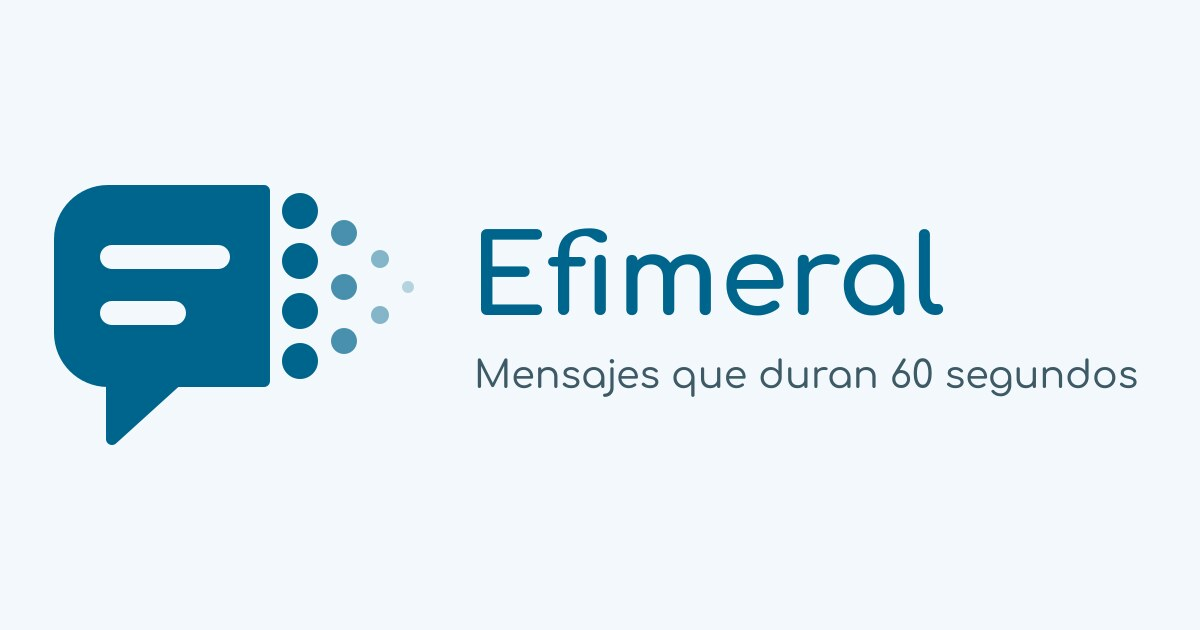
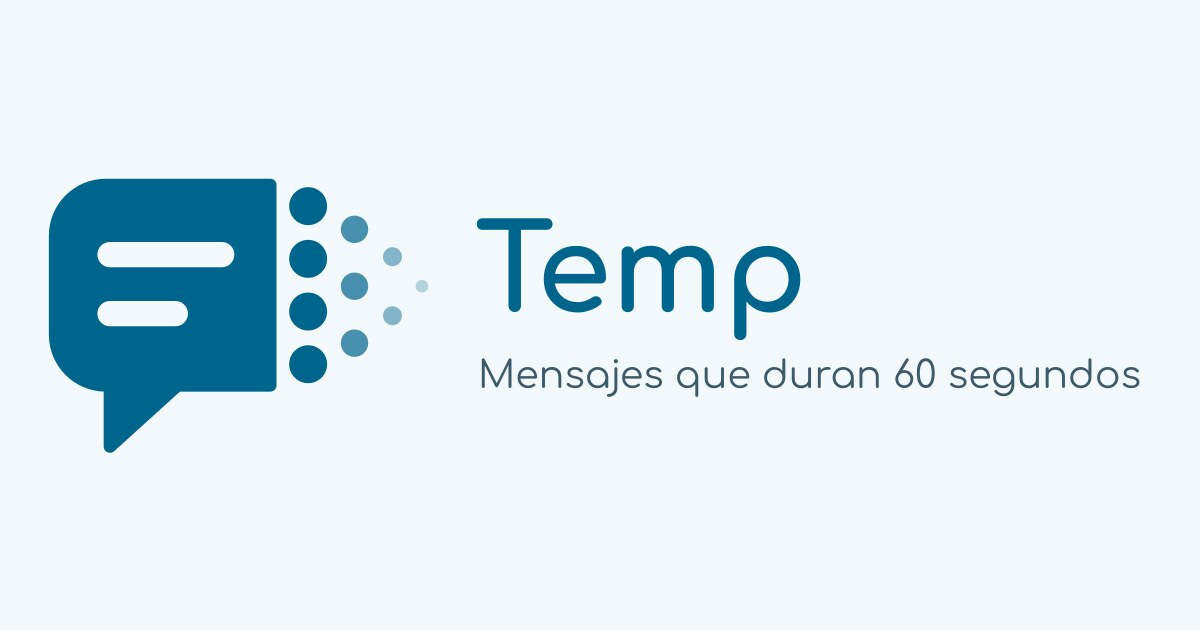
Renombrada a Temp: temp.dotrino.com, repo dotrino-temp, protocolo 'tmp'

diff --git a/src/main.js b/src/main.js
@@ -7,7 +7,7 @@ import { t, getLang, setLang } from './i18n.js'
 import { joinRoom, normalizeChannel, TTL_MS, MAX_TEXT } from './room.js'
 
 const app = document.getElementById('app')
-if (!app) throw new Error('efimeral: #app is missing from index.html')
+if (!app) throw new Error('temp: #app is missing from index.html')
 
 setLang(getLang())
 
@@ -40,12 +40,12 @@ const askedInvalid = location.pathname.length > 1 && !channel
 const topbar = h('dotrino-topbar', {
   profile: true,
   theme: true,
-  brand: channel ? 'Efimeral /' + channel : 'Efimeral',
+  brand: channel ? 'Temp /' + channel : 'Temp',
   icon: '/icon.svg',
   'brand-href': '/',
   'no-back': true,
   'support-href': 'https://ko-fi.com/dotrino',
-  'support-repo': 'imdotrino/dotrino-efimeral',
+  'support-repo': 'imdotrino/dotrino-temp',
   'support-discord': 'https://discord.gg/D648uq7cth',
 })
 const main = h('main', { class: 'view' })
@@ -81,7 +81,7 @@ function renderHome () {
   })
   const enterBtn = h('button', { class: 'btn primary', type: 'submit', 'data-testid': 'enter-btn' })
   const randomBtn = h('button', { class: 'btn', type: 'button', 'data-testid': 'random-btn', onclick: () => go(randomChannel()) })
-  const prefix = h('span', { class: 'prefix', text: 'efimeral.dotrino.com/' })
+  const prefix = h('span', { class: 'prefix', text: 'temp.dotrino.com/' })
   form.append(h('div', { class: 'channel-row' }, prefix, input), h('div', { class: 'row' }, enterBtn, randomBtn), msg)
   main.replaceChildren(form)
   repaint = () => {
@@ -199,7 +199,7 @@ function renderRoom (name) {
         copyBtn.innerHTML = ICON_CHECK
         copyBtn.classList.add('done')
         setTimeout(() => { copyBtn.innerHTML = ICON_COPY; copyBtn.classList.remove('done') }, 1500)
-      }).catch((e) => { console.warn('[efimeral] copy failed:', e?.message); showNotice(t('copyFailed')) })
+      }).catch((e) => { console.warn('[temp] copy failed:', e?.message); showNotice(t('copyFailed')) })
     })
     const resendBtn = m.mine
       ? h('button', { class: 'resend', type: 'button', 'data-testid': 'resend-btn', hidden: true })
@@ -229,7 +229,7 @@ function renderRoom (name) {
         reset()
         room.resend(m.id, acked).catch((err) => {
           if (err?.code === 'new-member') { paintStatus(); return }
-          console.error('[efimeral] resend failed:', err?.code || err?.message)
+          console.error('[temp] resend failed:', err?.code || err?.message)
         })
       })
     }
@@ -258,7 +258,7 @@ function renderRoom (name) {
     onNotice: (k, n) => showNotice(t(k, n)),
     onDelivered: () => paintResend(),
   }).then((r) => { room = r; paintResend() }).catch((e) => {
-    console.error('[efimeral] connect failed:', e?.code || e?.message)
+    console.error('[temp] connect failed:', e?.code || e?.message)
     state = 'error'
     paintStatus()
   })
@@ -271,7 +271,7 @@ function renderRoom (name) {
     // instante, no sale y el texto se queda en la caja.
     room.send(text, acked).then(() => { input.value = '' }).catch((err) => {
       if (err?.code === 'new-member') { paintStatus(); return }
-      console.error('[efimeral] send failed:', err?.code || err?.message)
+      console.error('[temp] send failed:', err?.code || err?.message)
     })
   })
   window.addEventListener('pagehide', () => room?.leave())
@@ -293,7 +293,7 @@ function hue (s) {
 if ('serviceWorker' in navigator && !import.meta.env.DEV) {
   window.addEventListener('load', () => {
     navigator.serviceWorker.register('/sw.js').then((reg) => {
-      setInterval(() => reg.update().catch((e) => console.warn('[efimeral] sw update failed:', e?.message)), 30 * 60_000)
-    }).catch((e) => console.warn('[efimeral] sw register failed:', e?.message))
+      setInterval(() => reg.update().catch((e) => console.warn('[temp] sw update failed:', e?.message)), 30 * 60_000)
+    }).catch((e) => console.warn('[temp] sw register failed:', e?.message))
   })
 }

diff --git a/src/room.js b/src/room.js
@@ -1,5 +1,5 @@
 /**
- * Un canal de Efimeral sobre el pilar de transporte (@dotrino/proxy-client).
+ * Un canal de Temp sobre el pilar de transporte (@dotrino/proxy-client).
  *
  * SIN CUENTA Y SIN NADA GUARDADO. Cada pestaña inventa al abrir dos llaves que viven solo
  * en memoria: una de firma (el proxio la pide para publicarse en un canal e identificarse)
@@ -25,7 +25,7 @@ const REPUBLISH_MS = 10 * 60_000
 // Red de seguridad del contador: los eventos joined/left lo llevan en tiempo real, y esto
 // corrige lo que se haya perdido en una reconexión.
 const RELIST_MS = 30_000
-const CHANNEL_PREFIX = 'efimeral_'
+const CHANNEL_PREFIX = 'temp_'
 
 /** @param {string} raw */
 export function normalizeChannel (raw) {
@@ -104,7 +104,7 @@ export async function joinRoom (name, h) {
       await refresh()
       h.onStatus('online')
     } catch (e) {
-      console.error('[efimeral] join failed:', /** @type {any} */ (e)?.code || /** @type {Error} */ (e).message)
+      console.error('[temp] join failed:', /** @type {any} */ (e)?.code || /** @type {Error} */ (e).message)
       h.onStatus('error')
     }
   }
@@ -124,19 +124,19 @@ export async function joinRoom (name, h) {
   }
   client.on('channel_left', (ch, tk) => gone(tk, ch))
   client.on('peer_disconnected', (tk, ch) => gone(tk, ch))
-  client.on('error', (e) => console.warn('[efimeral] transport:', e?.code || e?.type || e?.error))
+  client.on('error', (e) => console.warn('[temp] transport:', e?.code || e?.type || e?.error))
 
   client.on('message', (from, payload, meta) => {
     // El pilar es el único que abre el sobre; aquí solo se comprueba que venía sellado.
     if (!meta?.sealed) return
     const m = typeof payload === 'string' ? safeParse(payload) : payload
-    if (!m || m.t !== 'efm' || typeof m.text !== 'string' || typeof m.id !== 'string') return
+    if (!m || m.t !== 'tmp' || typeof m.text !== 'string' || typeof m.id !== 'string') return
     if (!compatible(m.v) && !warnedVersion) { warnedVersion = true; h.onNotice('oldVersion') }
     h.onMessage({ id: m.id, text: m.text.slice(0, MAX_TEXT), from, mine: false, at: Date.now() })
   })
 
   const logFail = (/** @type {string} */ what) => (/** @type {any} */ e) =>
-    console.warn(`[efimeral] ${what} failed:`, e?.code || e?.message)
+    console.warn(`[temp] ${what} failed:`, e?.code || e?.message)
   /**
    * Manda un mensaje mío a todos los conectados de ahora y apunta a quién le llegó.
    * @param {string} id
@@ -144,7 +144,7 @@ export async function joinRoom (name, h) {
   const deliver = async (id) => {
     const e = sent.get(id)
     if (!e) return
-    const payload = { t: 'efm', v: MINE, id, text: e.text }
+    const payload = { t: 'tmp', v: MINE, id, text: e.text }
     const others = [...members].filter((tk) => tk !== client.token)
     const results = await Promise.allSettled(others.map(async (tk) => {
       const peerPubkey = client.pubkeyOfToken(tk) || await client.whoIs(tk, 5000)
@@ -153,7 +153,7 @@ export async function joinRoom (name, h) {
       e.recipients.add(tk)
     }))
     const failed = results.filter((r) => r.status === 'rejected')
-    for (const f of failed) console.warn('[efimeral] not delivered:', /** @type {any} */ (f).reason?.code || /** @type {any} */ (f).reason?.message)
+    for (const f of failed) console.warn('[temp] not delivered:', /** @type {any} */ (f).reason?.code || /** @type {any} */ (f).reason?.message)
     if (failed.length) h.onNotice('notDelivered', failed.length)
     h.onDelivered(id)
   }

diff --git a/index.html b/index.html
@@ -5,29 +5,29 @@
 <meta name="viewport" content="width=device-width, initial-scale=1.0, viewport-fit=cover">
 <meta name="apple-mobile-web-app-capable" content="yes">
 <meta name="apple-mobile-web-app-status-bar-style" content="black-translucent">
-<meta name="apple-mobile-web-app-title" content="Efimeral">
+<meta name="apple-mobile-web-app-title" content="Temp">
 <meta name="theme-color" content="#00658c">
 <link rel="manifest" href="/manifest.webmanifest">
 <link rel="icon" type="image/svg+xml" href="/icon.svg">
 <link rel="icon" type="image/png" sizes="192x192" href="/icon-192.png">
 <link rel="apple-touch-icon" href="/icon-192.png">
-<title>Efimeral — chat que se borra solo</title>
+<title>Temp — chat que se borra solo</title>
 <meta name="description" content="Un chat sin cuenta y sin historial. Elige un canal de hasta 3 caracteres, escribe, y cada mensaje se borra a los 60 segundos. Solo ves cuántas personas hay conectadas." />
-<link rel="canonical" href="https://efimeral.dotrino.com/" />
+<link rel="canonical" href="https://temp.dotrino.com/" />
 <meta property="og:type" content="website" />
 <meta property="og:locale" content="es_ES" />
 <meta property="og:locale:alternate" content="en_US" />
 <meta property="og:site_name" content="Dotrino" />
-<meta property="og:title" content="Efimeral" />
+<meta property="og:title" content="Temp" />
 <meta property="og:description" content="Chat sin cuenta ni historial: canales de hasta 3 caracteres y mensajes que se borran a los 60 segundos." />
-<meta property="og:url" content="https://efimeral.dotrino.com/" />
-<meta property="og:image" content="https://efimeral.dotrino.com/og.jpg" />
+<meta property="og:url" content="https://temp.dotrino.com/" />
+<meta property="og:image" content="https://temp.dotrino.com/og.jpg" />
 <meta property="og:image:width" content="1200" />
 <meta property="og:image:height" content="630" />
 <meta name="twitter:card" content="summary_large_image" />
-<meta name="twitter:title" content="Efimeral" />
+<meta name="twitter:title" content="Temp" />
 <meta name="twitter:description" content="Chat sin cuenta ni historial: canales de hasta 3 caracteres y mensajes que se borran a los 60 segundos." />
-<meta name="twitter:image" content="https://efimeral.dotrino.com/og.jpg" />
+<meta name="twitter:image" content="https://temp.dotrino.com/og.jpg" />
 <!-- Analítica cookieless autohosteada (GoatCounter); no cuenta en localhost/LAN.
      Solo cuenta la cáscara: el canal (la ruta) no se manda. -->
 <script>window.goatcounter={path:function(){return location.hostname+'/'}}</script>
@@ -36,8 +36,8 @@
 {
   "@context": "https://schema.org",
   "@type": "WebApplication",
-  "name": "Efimeral",
-  "url": "https://efimeral.dotrino.com/",
+  "name": "Temp",
+  "url": "https://temp.dotrino.com/",
   "description": "Chat sin cuenta ni historial: canales de hasta 3 caracteres y mensajes que se borran a los 60 segundos.",
   "applicationCategory": "CommunicationApplication",
   "operatingSystem": "Web",

diff --git a/src/i18n.js b/src/i18n.js
@@ -18,7 +18,7 @@ const STRINGS = {
     empty: 'Nada por aquí. Lo que se escriba dura 60 segundos.',
     otherChannel: 'Otro canal',
     notDelivered: (/** @type {number} */ n) => (n === 1 ? 'No le llegó a 1 persona.' : `No les llegó a ${n} personas.`),
-    oldVersion: 'Alguien en el canal usa otra versión de Efimeral; puede que no se lean bien.',
+    oldVersion: 'Alguien en el canal usa otra versión de Temp; puede que no se lean bien.',
     error: 'No se pudo conectar.',
     joinedAlert: (/** @type {number} */ n) => `Entró alguien. Ahora hay ${n} conectados. Revisa antes de enviar.`,
     ack: 'Entendido',
@@ -43,7 +43,7 @@ const STRINGS = {
     empty: 'Nothing here. Whatever is written lasts 60 seconds.',
     otherChannel: 'Another channel',
     notDelivered: (/** @type {number} */ n) => (n === 1 ? '1 person did not get it.' : `${n} people did not get it.`),
-    oldVersion: 'Someone in this channel runs another version of Efimeral; you may not read each other well.',
+    oldVersion: 'Someone in this channel runs another version of Temp; you may not read each other well.',
     error: 'Could not connect.',
     joinedAlert: (/** @type {number} */ n) => `Someone joined. There are now ${n} online. Check before sending.`,
     ack: 'Got it',

diff --git a/src/compat.js b/src/compat.js
@@ -5,13 +5,13 @@
  * bloquea: si alguien habla otra versión, se avisa en el canal y el mensaje se enseña
  * igual.
  *
- * Protocolo 1: `{ t: 'efm', v, id, text }`, sellado por el transporte.
+ * Protocolo 1: `{ t: 'tmp', v, id, text }`, sellado por el transporte.
  */
 import { declare, check } from '@dotrino/compat'
 
 /* global __APP_VERSION__ */
 export const MINE = declare({
-  product: 'efimeral',
+  product: 'temp',
   version: __APP_VERSION__,
   protocol: 1,
   speaks: [1],
@@ -32,7 +32,7 @@ export function compatible (theirs) {
   try {
     return check({ mine: MINE, theirs, broken: BROKEN }).compatible
   } catch (e) {
-    console.warn('[efimeral] unreadable version declaration:', /** @type {Error} */ (e).message)
+    console.warn('[temp] unreadable version declaration:', /** @type {Error} */ (e).message)
     return false
   }
 }

diff --git a/vite.config.js b/vite.config.js
@@ -17,7 +17,7 @@ function commitMeta () {
   }
 }
 
-// El canal va en la ruta (efimeral.dotrino.com/abc). Pages no sabe de rutas: lo que no
+// El canal va en la ruta (temp.dotrino.com/abc). Pages no sabe de rutas: lo que no
 // existe lo sirve su 404.html, así que el 404 es la misma app.
 function spaFallback () {
   return {
@@ -30,7 +30,7 @@ function spaFallback () {
 }
 
 export default defineConfig({
-  plugins: [prerender({ links: [{ href: 'https://wiki.dotrino.com/apps/efimeral/', text: 'Cómo se usa Efimeral' }] }), commitMeta(), spaFallback()],
+  plugins: [prerender({ links: [{ href: 'https://wiki.dotrino.com/apps/temp/', text: 'Cómo se usa Temp' }] }), commitMeta(), spaFallback()],
   // base '/' y no './': la app se sirve también desde /abc, y ahí una ruta relativa
   // buscaría los assets en el sitio equivocado.
   base: '/',

diff --git a/src/env.d.ts b/src/env.d.ts
@@ -2,7 +2,7 @@
 // La versión de esta build, la escribe vite.config.js (`define`).
 declare const __APP_VERSION__: string
 
-// @dotrino/compat 0.5.1 no publica tipos: aquí va lo que Efimeral usa.
+// @dotrino/compat 0.5.1 no publica tipos: aquí va lo que Temp usa.
 declare module '@dotrino/compat' {
   export interface Declaration { product: string, version: string, protocol: number, speaks: number[] }
   export interface BrokenEntry { product: string, versions: string | string[], why?: string, fix?: string }

diff --git a/public/sw.js b/public/sw.js
@@ -5,7 +5,7 @@
 // ámbito genérico de un worker, así que se dice aquí una vez.
 const sw = /** @type {ServiceWorkerGlobalScope} */ (/** @type {unknown} */ (self));
 
-const CACHE = 'efimeral-v1';
+const CACHE = 'temp-v1';
 const ASSETS = [
   '/',
   '/index.html',

diff --git a/README.md b/README.md
@@ -1,15 +1,15 @@
-# Efimeral
+# Temp
 
-**https://efimeral.dotrino.com/**
+**https://temp.dotrino.com/**
 
 Un chat sin cuenta y sin historial. Entras a un canal de hasta 3 letras o números
-(`efimeral.dotrino.com/abc`), escribes, y cada mensaje se borra a los 60 segundos. Solo ves
+(`temp.dotrino.com/abc`), escribes, y cada mensaje se borra a los 60 segundos. Solo ves
 cuántas personas hay conectadas.
 
 Sirve para pasarse algo que hay que copiar —un código, un enlace, una clave— entre dos
 aparatos o dos personas, sin dejarlo guardado en ningún sitio.
 
-Cómo se usa: [wiki.dotrino.com/apps/efimeral](https://wiki.dotrino.com/apps/efimeral/).
+Cómo se usa: [wiki.dotrino.com/apps/temp](https://wiki.dotrino.com/apps/temp/).
 
 ## Cómo funciona
 
